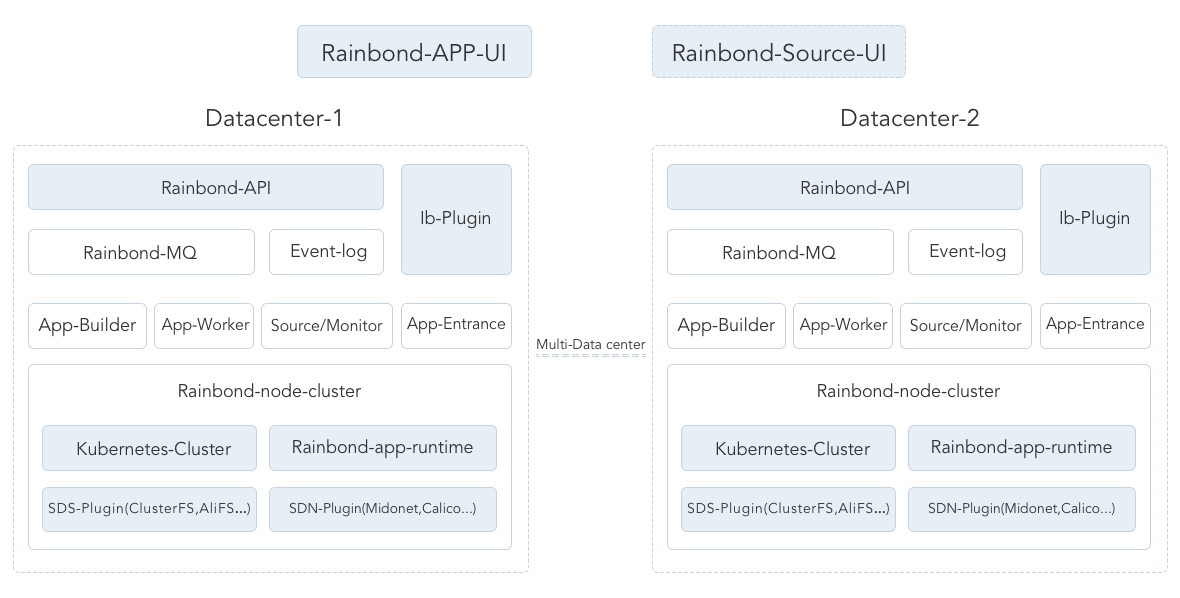
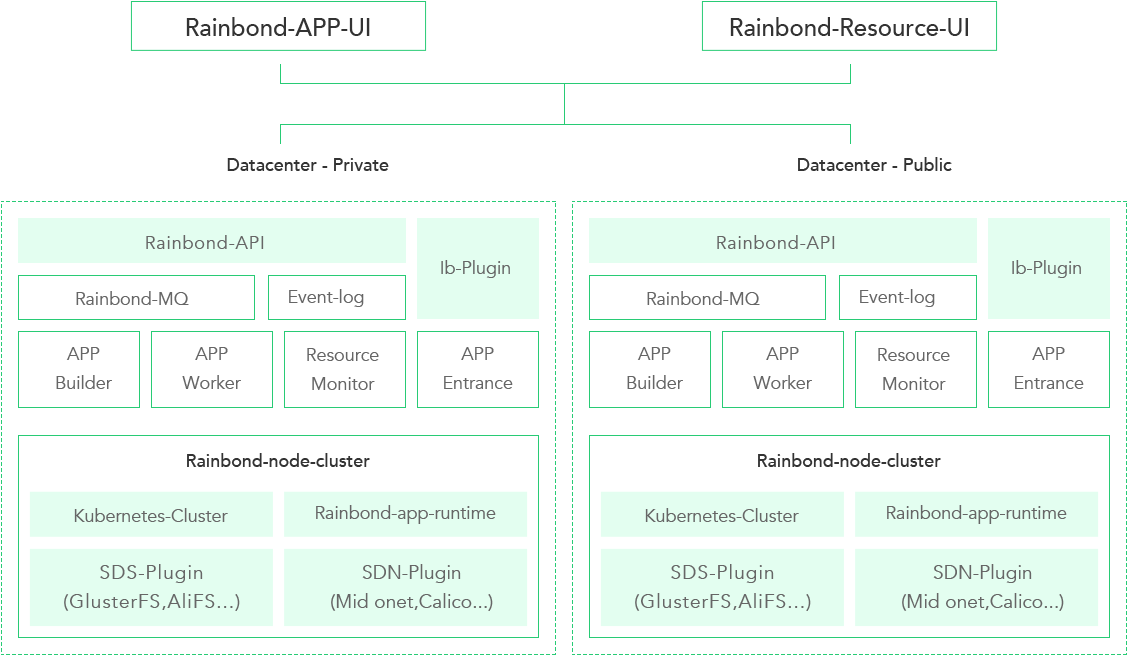
[FIX] resolve architecture pic

diff --git a/README.md b/README.md
@@ -1,7 +1,7 @@
 <img src="https://github.com/goodrain/rainbond/blob/master/docs/rainbond_logo.png" width="40%">
 
 ----
-Rainbond is first open source production grade serverless PaaS in China. It integrates Kubernetes based containers management, CI/CD methods and multiple data center resource management, to provide full management solution of cloud native application, build connection system of application and infrastructure, application and application, infrastructure and infrastructure.
+Rainbond is first open source production grade serverless PaaS. It integrates Kubernetes based containers management, CI/CD methods and multiple data center resource management, to provide full management solution of cloud native application, build connection system of application and infrastructure, application and application, infrastructure and infrastructure.
 
 5 years of optimizing and verifying makes Rainbond a cutting edge serverless PaaS with complete ecosystem and concept. We choose to open source and embrace the community, absorbing best ideas and practices to further improve and enhance Rainbond, enabling more enterprise and individuals to enjoy "application-centric" experience.
 
